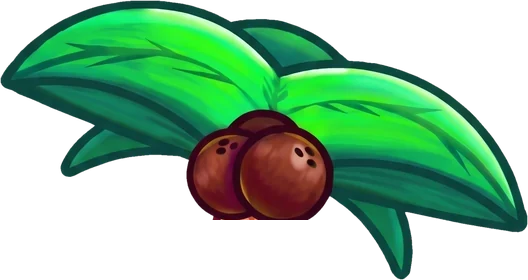
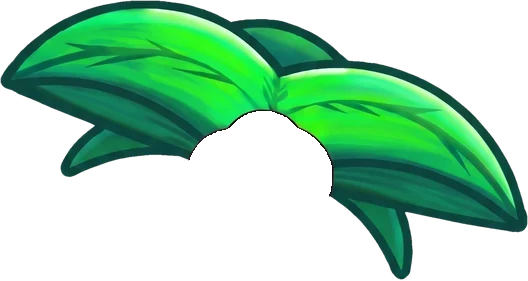
Palms: whole round coconuts, only the leaves sway

diff --git a/index.html b/index.html
@@ -1485,7 +1485,7 @@ header.slotbar{justify-content:space-between!important;padding:6px 12px!importan
 @keyframes sbump{0%{transform:scale(1.5)}100%{transform:none}}
 
 </style>
-<script>window.MANGO_IMG_V = {"bg-day":"d919a75b","bg-sunset":"4de74376","buy-plank":"602240fd","frame-driftwood":"76ee142b","H1":"02610a3c","H2":"9986ec72","H3":"dd03fec8","H4":"16055f06","L1":"79847f20","L2":"deade74a","L3":"dabb402b","L4":"ec24535d","L5":"ad8186b4","rope":"f927cf27","S1":"f0935078","sc-bush-day":"88dde9d2","sc-bush-sunset":"4527095d","sc-chair-day":"4ddd96b6","sc-chair-sunset":"31c834a6","sc-crab":"8c270de0","sc-dolphin":"3b0b90c2","sc-palmL-crown":"c5388590","sc-palmL-trunk":"ba262adb","sc-palmL":"dcb46604","sc-palmR-crown":"1f9a1621","sc-palmR-trunk":"9dd09f31","sc-palmR":"037041cd","sc-plate-day":"6a3c3539","sc-plate-sunset":"9048935b","sc-splash":"fd32b9b1","sc-water-day":"16468e92","sc-water-sunset":"de08cee6","sc-whale":"6d2091dd","seaweed":"1807e492","surf-tricks":"428d180b","W":"6c3e2365","wild-rider":"c2212150","wild-wave":"f24ca5f5","wood-panel":"3699864c"};</script>
+<script>window.MANGO_IMG_V = {"bg-day":"d919a75b","bg-sunset":"4de74376","buy-plank":"602240fd","frame-driftwood":"76ee142b","H1":"02610a3c","H2":"9986ec72","H3":"dd03fec8","H4":"16055f06","L1":"79847f20","L2":"deade74a","L3":"dabb402b","L4":"ec24535d","L5":"ad8186b4","rope":"f927cf27","S1":"f0935078","sc-bush-day":"88dde9d2","sc-bush-sunset":"4527095d","sc-chair-day":"4ddd96b6","sc-chair-sunset":"31c834a6","sc-crab":"8c270de0","sc-dolphin":"3b0b90c2","sc-palmL-crown":"8e7b8072","sc-palmL-trunk":"0f5723f1","sc-palmL":"dcb46604","sc-palmR-crown":"ded7a3e1","sc-palmR-trunk":"78951342","sc-palmR":"037041cd","sc-plate-day":"6a3c3539","sc-plate-sunset":"9048935b","sc-splash":"fd32b9b1","sc-water-day":"16468e92","sc-water-sunset":"de08cee6","sc-whale":"6d2091dd","seaweed":"1807e492","surf-tricks":"428d180b","W":"6c3e2365","wild-rider":"c2212150","wild-wave":"f24ca5f5","wood-panel":"3699864c"};</script>
 <script>
 /*
  * Mango Surf audio - synthesized Web Audio module (play money learning project).
@@ -3165,9 +3165,9 @@ header.slotbar{justify-content:space-between!important;padding:6px 12px!importan
   // bottom like the old still image, so the pieces line up with the painted beach at every screen size. Day and sunset
   // plates (the beach with the crabs and palms painted out) swap with the bonus; the moving pieces are separate images.
   const SC = {
-    // trunks stand still; only the crown (leaves + coconuts) moves, bending at the top of the trunk (cx/cy, image pixels)
-    palmL: {x: -200, y: 280, w: 654, h: 700, iw: 654, ch: 398, cx: 290, cy: 262},
-    palmR: {x: 1511, y: 188, w: 449, h: 646, iw: 528, ch: 280, cx: 235, cy: 205},
+    // trunks and coconuts stand still; only the leaves move, swinging around the coconut cluster (cx/cy, image pixels)
+    palmL: {x: -200, y: 280, w: 654, h: 700, iw: 654, ch: 591, cx: 310, cy: 230},
+    palmR: {x: 1511, y: 188, w: 449, h: 646, iw: 528, ch: 281, cx: 247, cy: 212},
     water: {y: 395, h: 350},                                      // the painted sea and its foam line, cut from the plates
     sea: {x0: 420, x1: 1380, y: 470}                              // where dolphins and whales show: the open water, its surface line
   };
@@ -3175,8 +3175,10 @@ header.slotbar{justify-content:space-between!important;padding:6px 12px!importan
     const host = document.querySelector('.scene'); if (!host || host.querySelector('.mscene')) return;
     const box = document.createElement('div'); box.className = 'mscene'; box.setAttribute('aria-hidden', 'true');
     const palm = (k, p) => { const f = p.w / p.iw;
-      return `<div class="sc-palm ${k}" style="left:${p.x}px;top:${p.y}px;width:${p.w}px;height:${p.h}px"><img class="trunk" src="${src(`sc-${k}-trunk`)}" alt="">` +
-        `<img class="crown" src="${src(`sc-${k}-crown`)}" alt="" style="height:${p.ch * f}px;transform-origin:${p.cx * f}px ${p.cy * f}px"></div>`; };
+      // only the leaves sway (behind); the trunk and coconuts are one still piece drawn in front of them
+      return `<div class="sc-palm ${k}" style="left:${p.x}px;top:${p.y}px;width:${p.w}px;height:${p.h}px">` +
+        `<img class="crown" src="${src(`sc-${k}-crown`)}" alt="" style="height:${p.ch * f}px;transform-origin:${p.cx * f}px ${p.cy * f}px">` +
+        `<img class="trunk" src="${src(`sc-${k}-trunk`)}" alt=""></div>`; };
     const water = k => `<div class="sc-water ${k}" style="top:${SC.water.y}px;height:${SC.water.h}px"><img class="wv a" src="${src(`sc-water-${k}`)}" alt=""><img class="wv b" src="${src(`sc-water-${k}`)}" alt=""></div>`;
     box.innerHTML = `<div class="sc-world">
         <img class="sc-plate day" src="${src(`sc-plate-day`)}" alt=""><img class="sc-plate sunset" src="${src(`sc-plate-sunset`)}" alt="">
